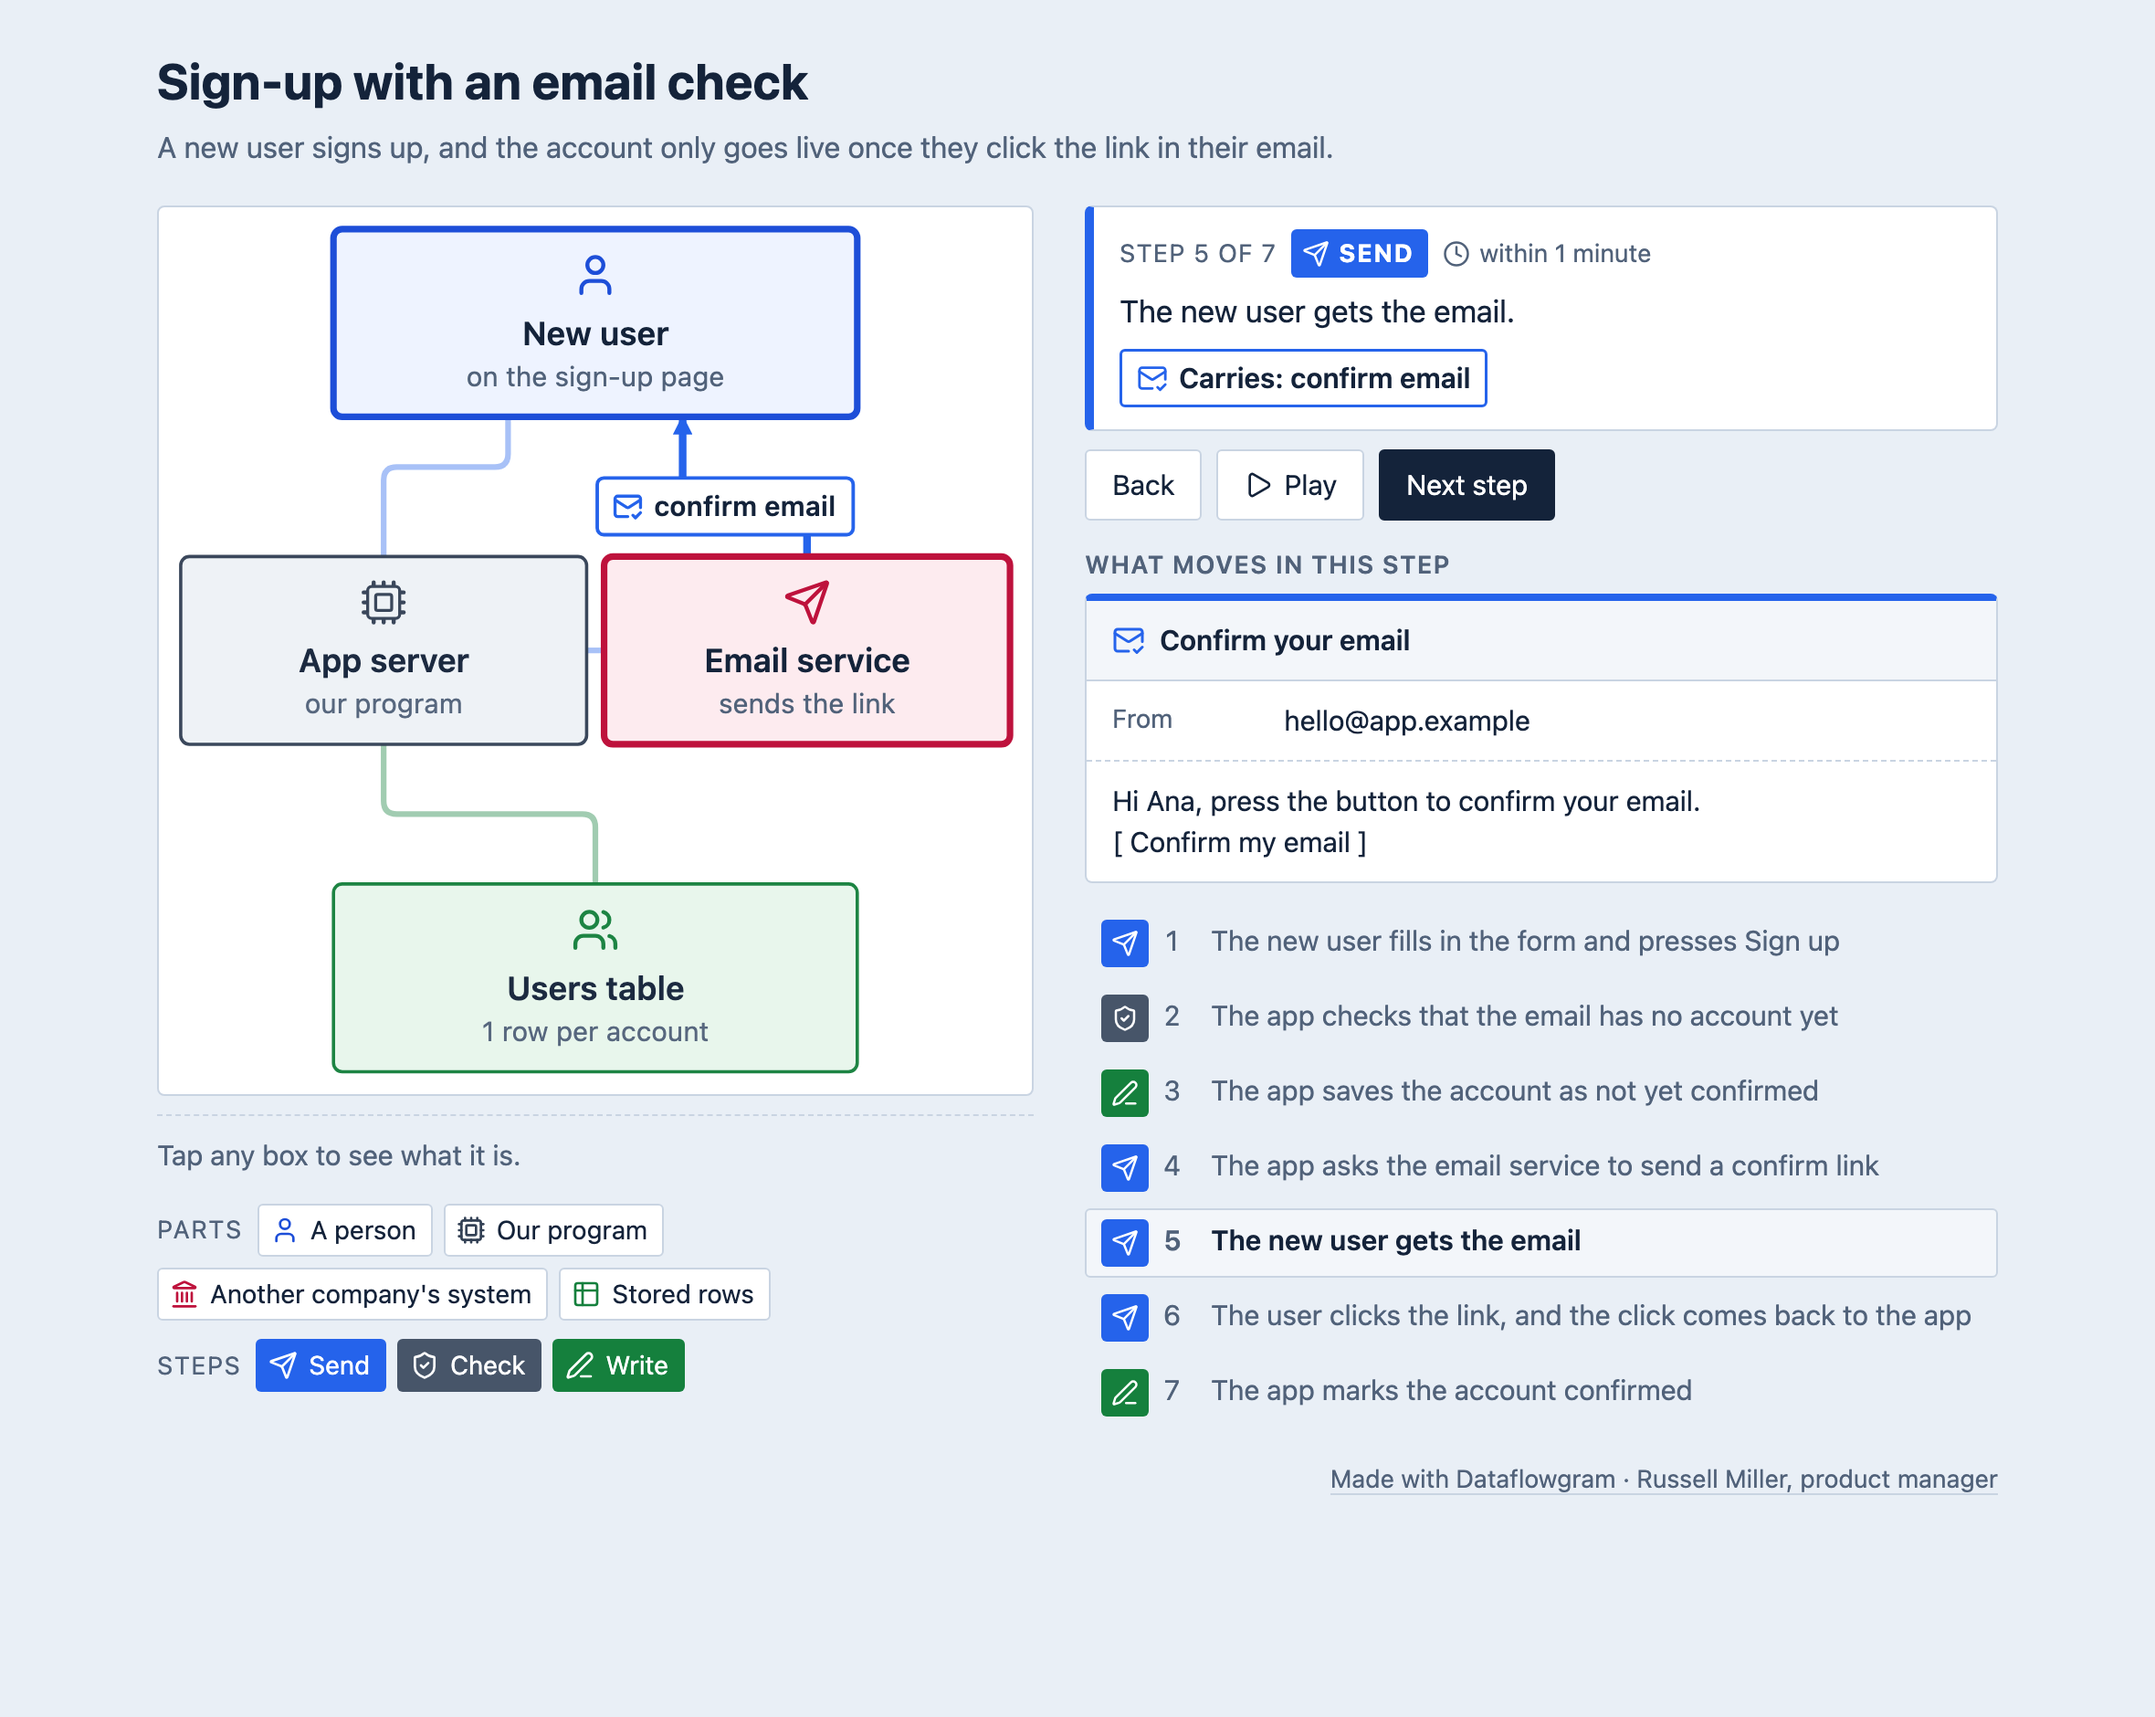
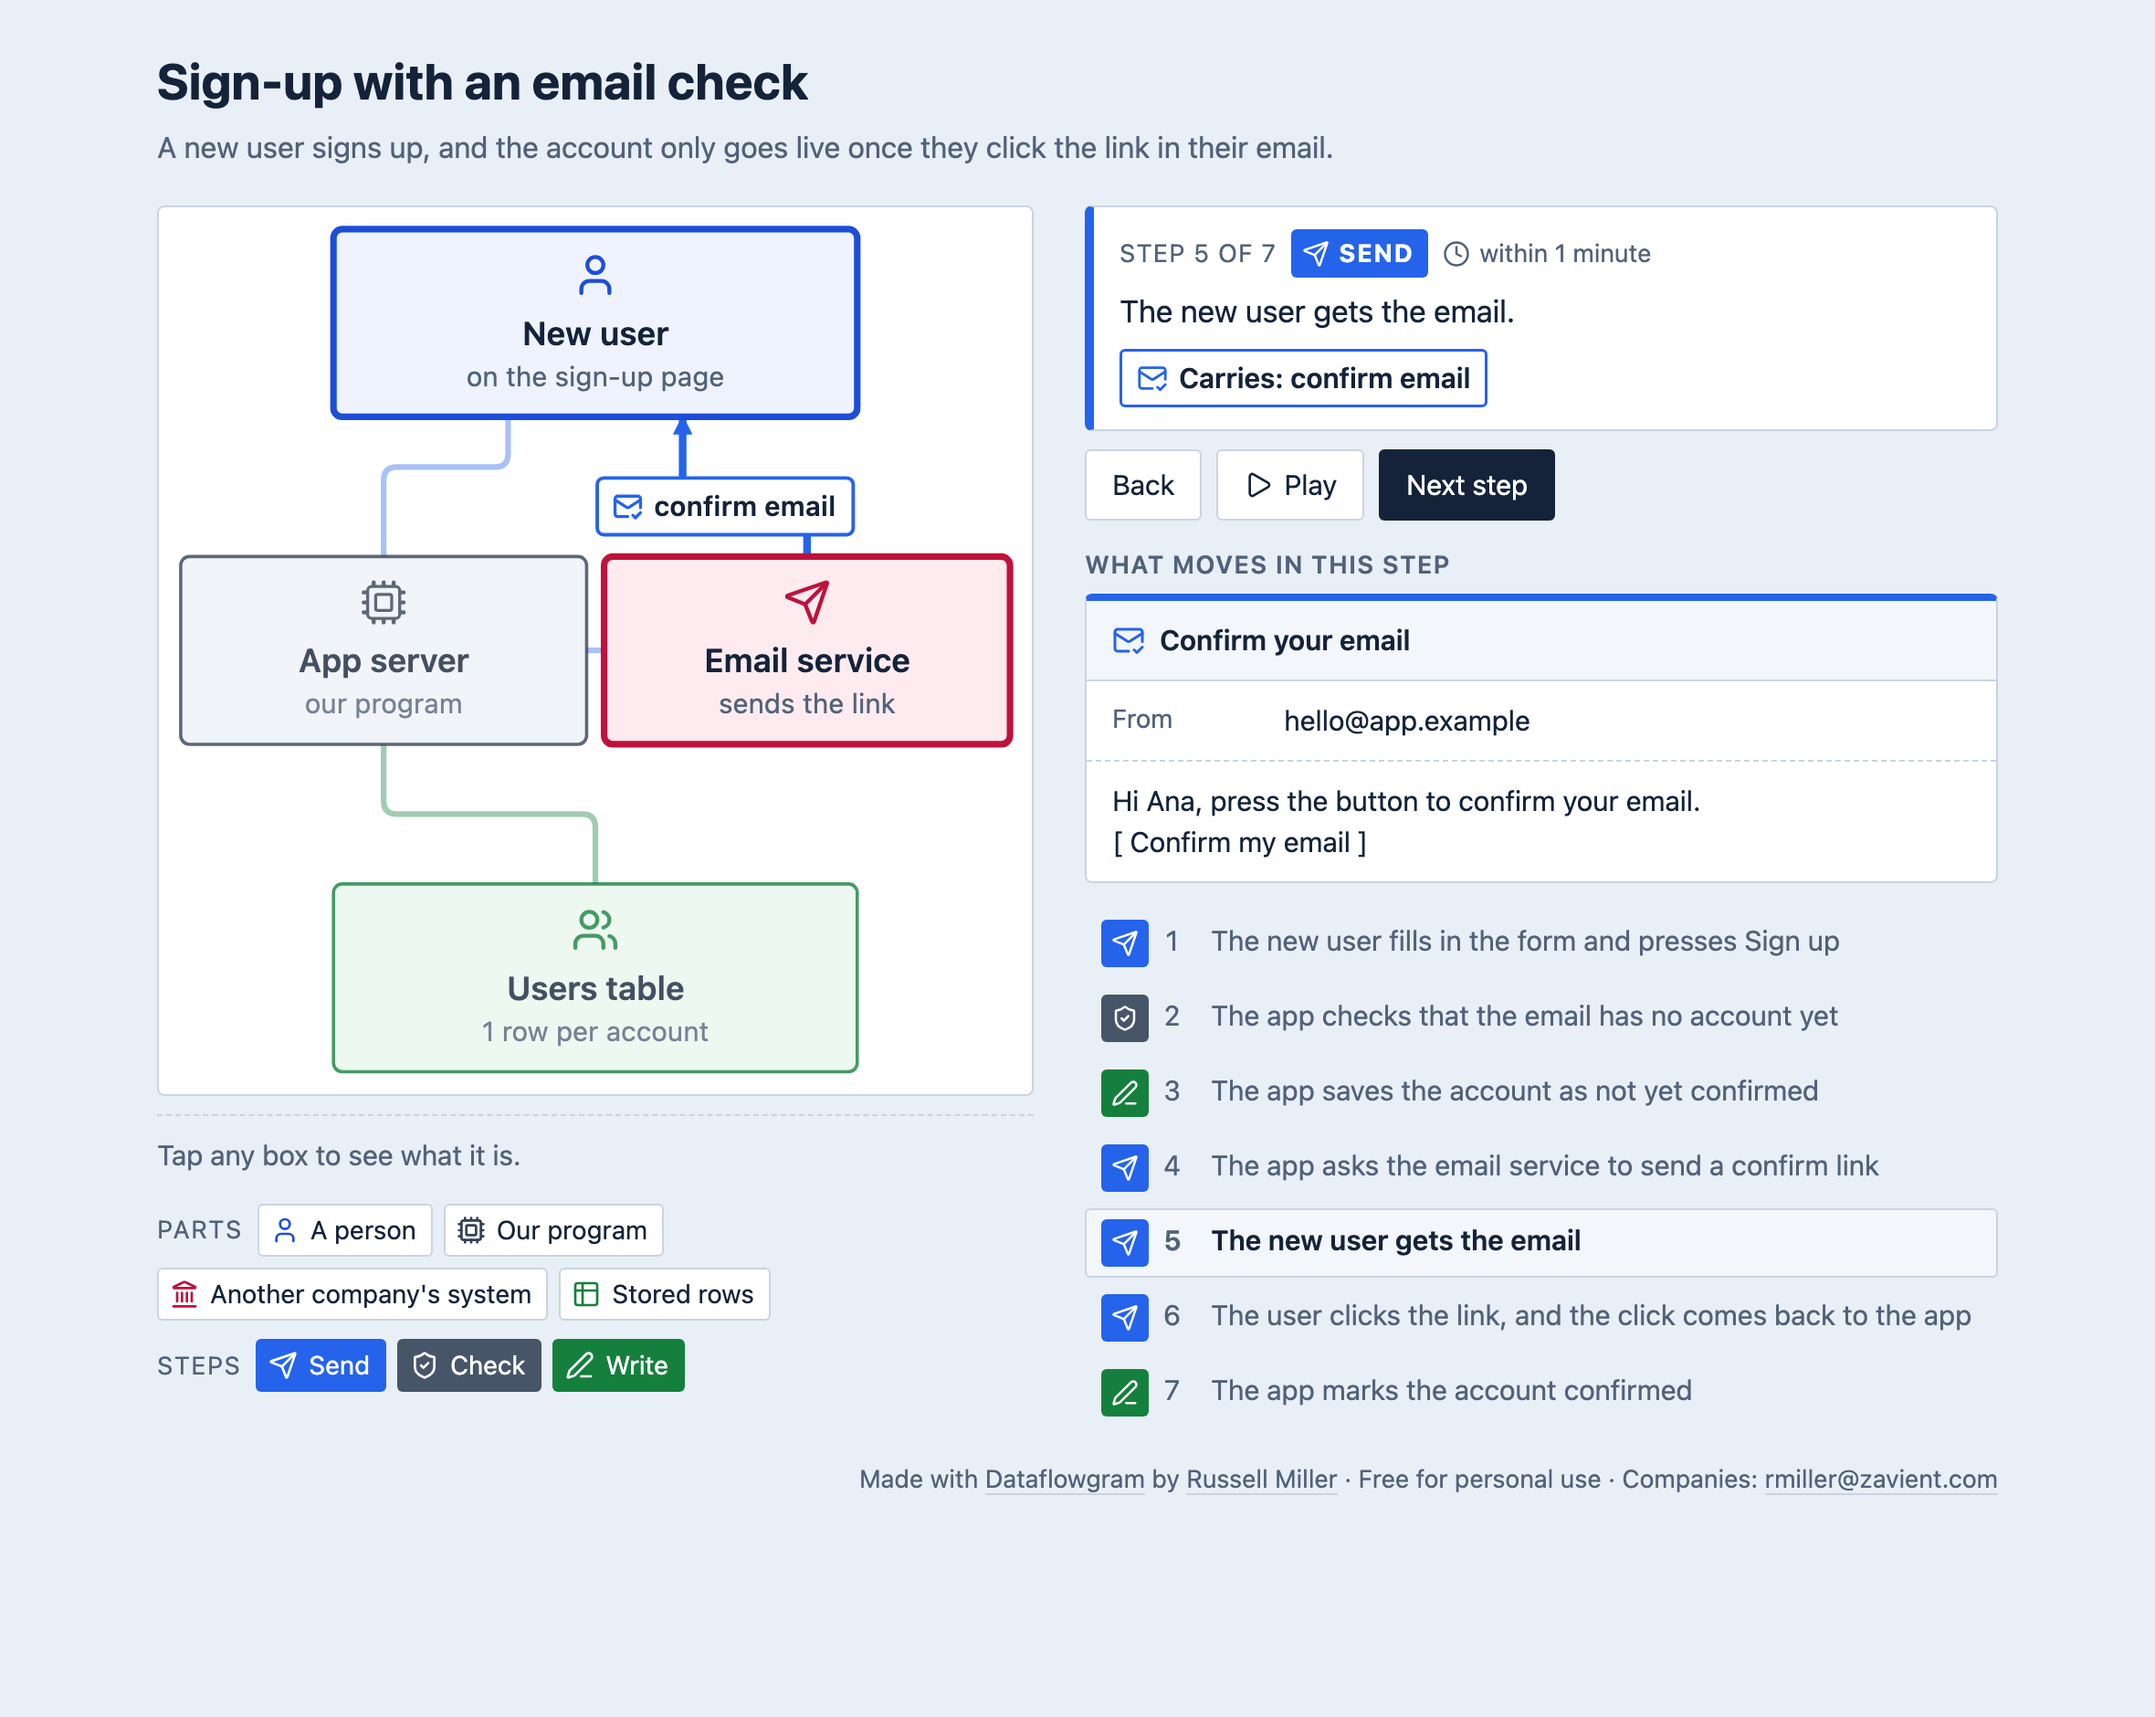
Credit line: free for personal use, companies contact Russell Miller

diff --git a/docs/examples/notes-inbox.html b/docs/examples/notes-inbox.html
@@ -61,7 +61,7 @@ h1{font-size:1.7rem;line-height:1.2;margin:0}
 .df-info{margin-top:10px;font-size:.95rem;color:var(--df-ink2);border-top:1px dashed var(--df-line);padding-top:10px}
 .df-info b{color:var(--df-ink)}
 .df-legend{display:flex;flex-wrap:wrap;gap:6px;margin-top:10px;align-items:center}
-.df-credit{margin:18px 0 0;text-align:right;font-size:.85rem}
+.df-credit{margin:18px 0 0;text-align:right;font-size:.85rem;color:var(--df-ink2)}
 .df-credit a{color:var(--df-ink2);text-decoration:none;border-bottom:1px solid var(--df-line)}
 .df-credit a:hover{color:var(--df-ink);border-bottom-color:var(--df-ink)}
 .df-legend small{font-size:.85rem;text-transform:uppercase;letter-spacing:.06em;color:var(--df-ink2);margin-right:2px}
@@ -136,7 +136,7 @@ h1{font-size:1.7rem;line-height:1.2;margin:0}
       <ol class="df-steps"></ol>
     </div>
   </div>
-  <p class="df-credit"><a href="https://russellmiller.io" target="_blank" rel="noopener">Made with Dataflowgram · Russell Miller, product manager</a></p>
+  <p class="df-credit">Made with <a href="https://github.com/russellmiller3/dataflowgram" target="_blank" rel="noopener">Dataflowgram</a> by <a href="https://russellmiller.io" target="_blank" rel="noopener">Russell Miller</a> · Free for personal use · Companies: <a href="mailto:rmiller@zavient.com?subject=Dataflowgram%20licence">rmiller@zavient.com</a></p>
 </div>
 <script>
 (function(){

diff --git a/docs/examples/online-order.html b/docs/examples/online-order.html
@@ -61,7 +61,7 @@ h1{font-size:1.7rem;line-height:1.2;margin:0}
 .df-info{margin-top:10px;font-size:.95rem;color:var(--df-ink2);border-top:1px dashed var(--df-line);padding-top:10px}
 .df-info b{color:var(--df-ink)}
 .df-legend{display:flex;flex-wrap:wrap;gap:6px;margin-top:10px;align-items:center}
-.df-credit{margin:18px 0 0;text-align:right;font-size:.85rem}
+.df-credit{margin:18px 0 0;text-align:right;font-size:.85rem;color:var(--df-ink2)}
 .df-credit a{color:var(--df-ink2);text-decoration:none;border-bottom:1px solid var(--df-line)}
 .df-credit a:hover{color:var(--df-ink);border-bottom-color:var(--df-ink)}
 .df-legend small{font-size:.85rem;text-transform:uppercase;letter-spacing:.06em;color:var(--df-ink2);margin-right:2px}
@@ -136,7 +136,7 @@ h1{font-size:1.7rem;line-height:1.2;margin:0}
       <ol class="df-steps"></ol>
     </div>
   </div>
-  <p class="df-credit"><a href="https://russellmiller.io" target="_blank" rel="noopener">Made with Dataflowgram · Russell Miller, product manager</a></p>
+  <p class="df-credit">Made with <a href="https://github.com/russellmiller3/dataflowgram" target="_blank" rel="noopener">Dataflowgram</a> by <a href="https://russellmiller.io" target="_blank" rel="noopener">Russell Miller</a> · Free for personal use · Companies: <a href="mailto:rmiller@zavient.com?subject=Dataflowgram%20licence">rmiller@zavient.com</a></p>
 </div>
 <script>
 (function(){

diff --git a/docs/examples/sign-up.html b/docs/examples/sign-up.html
@@ -61,7 +61,7 @@ h1{font-size:1.7rem;line-height:1.2;margin:0}
 .df-info{margin-top:10px;font-size:.95rem;color:var(--df-ink2);border-top:1px dashed var(--df-line);padding-top:10px}
 .df-info b{color:var(--df-ink)}
 .df-legend{display:flex;flex-wrap:wrap;gap:6px;margin-top:10px;align-items:center}
-.df-credit{margin:18px 0 0;text-align:right;font-size:.85rem}
+.df-credit{margin:18px 0 0;text-align:right;font-size:.85rem;color:var(--df-ink2)}
 .df-credit a{color:var(--df-ink2);text-decoration:none;border-bottom:1px solid var(--df-line)}
 .df-credit a:hover{color:var(--df-ink);border-bottom-color:var(--df-ink)}
 .df-legend small{font-size:.85rem;text-transform:uppercase;letter-spacing:.06em;color:var(--df-ink2);margin-right:2px}
@@ -136,7 +136,7 @@ h1{font-size:1.7rem;line-height:1.2;margin:0}
       <ol class="df-steps"></ol>
     </div>
   </div>
-  <p class="df-credit"><a href="https://russellmiller.io" target="_blank" rel="noopener">Made with Dataflowgram · Russell Miller, product manager</a></p>
+  <p class="df-credit">Made with <a href="https://github.com/russellmiller3/dataflowgram" target="_blank" rel="noopener">Dataflowgram</a> by <a href="https://russellmiller.io" target="_blank" rel="noopener">Russell Miller</a> · Free for personal use · Companies: <a href="mailto:rmiller@zavient.com?subject=Dataflowgram%20licence">rmiller@zavient.com</a></p>
 </div>
 <script>
 (function(){

diff --git a/docs/examples/support-triage.html b/docs/examples/support-triage.html
@@ -61,7 +61,7 @@ h1{font-size:1.7rem;line-height:1.2;margin:0}
 .df-info{margin-top:10px;font-size:.95rem;color:var(--df-ink2);border-top:1px dashed var(--df-line);padding-top:10px}
 .df-info b{color:var(--df-ink)}
 .df-legend{display:flex;flex-wrap:wrap;gap:6px;margin-top:10px;align-items:center}
-.df-credit{margin:18px 0 0;text-align:right;font-size:.85rem}
+.df-credit{margin:18px 0 0;text-align:right;font-size:.85rem;color:var(--df-ink2)}
 .df-credit a{color:var(--df-ink2);text-decoration:none;border-bottom:1px solid var(--df-line)}
 .df-credit a:hover{color:var(--df-ink);border-bottom-color:var(--df-ink)}
 .df-legend small{font-size:.85rem;text-transform:uppercase;letter-spacing:.06em;color:var(--df-ink2);margin-right:2px}
@@ -136,7 +136,7 @@ h1{font-size:1.7rem;line-height:1.2;margin:0}
       <ol class="df-steps"></ol>
     </div>
   </div>
-  <p class="df-credit"><a href="https://russellmiller.io" target="_blank" rel="noopener">Made with Dataflowgram · Russell Miller, product manager</a></p>
+  <p class="df-credit">Made with <a href="https://github.com/russellmiller3/dataflowgram" target="_blank" rel="noopener">Dataflowgram</a> by <a href="https://russellmiller.io" target="_blank" rel="noopener">Russell Miller</a> · Free for personal use · Companies: <a href="mailto:rmiller@zavient.com?subject=Dataflowgram%20licence">rmiller@zavient.com</a></p>
 </div>
 <script>
 (function(){

diff --git a/README.md b/README.md
@@ -54,7 +54,7 @@ It needs Node.js 18 or later, and nothing else: the icons are stored in the skil
 | Charities, schools, government | Free |
 | Use at or for a company, including freelance client work | Commercial licence: [rmiller@zavient.com](mailto:rmiller@zavient.com) |
 
-Every diagram carries a small credit in its lower right corner, "Made with Dataflowgram · Russell Miller, product manager". The licence asks you to keep it; a commercial licence lets you remove it. The full terms are in [LICENSE](LICENSE): the PolyForm Noncommercial License 1.0.0, with that one added term.
+Every diagram carries a small credit in its lower right corner, "Made with Dataflowgram by Russell Miller · Free for personal use · Companies: rmiller@zavient.com". The licence asks you to keep it; a commercial licence lets you remove it. The full terms are in [LICENSE](LICENSE): the PolyForm Noncommercial License 1.0.0, with that one added term.
 
 ## Use it
 
